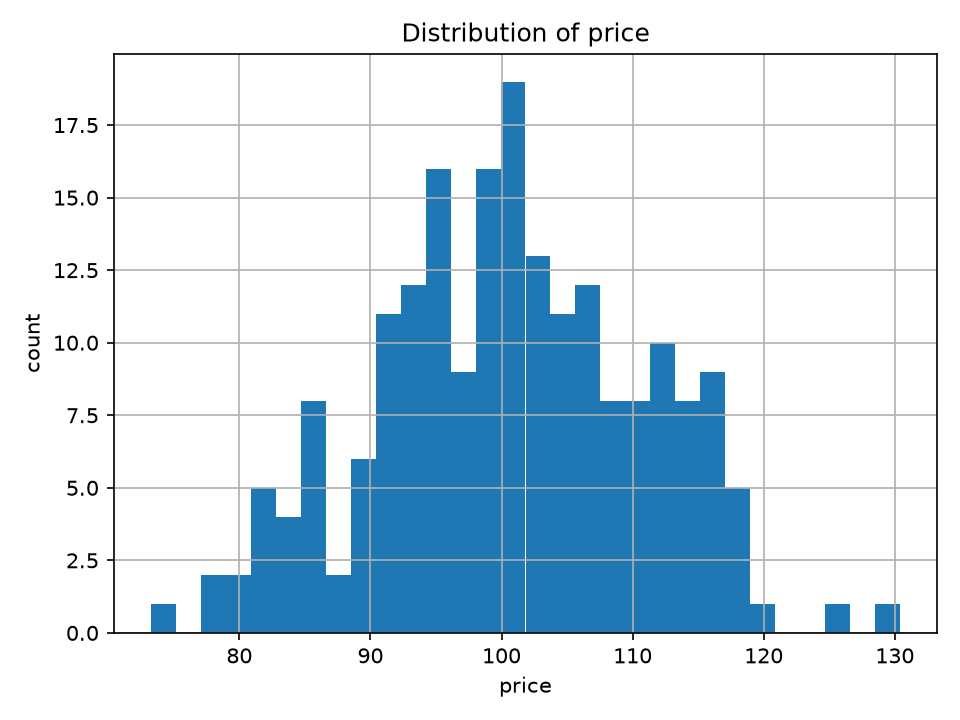
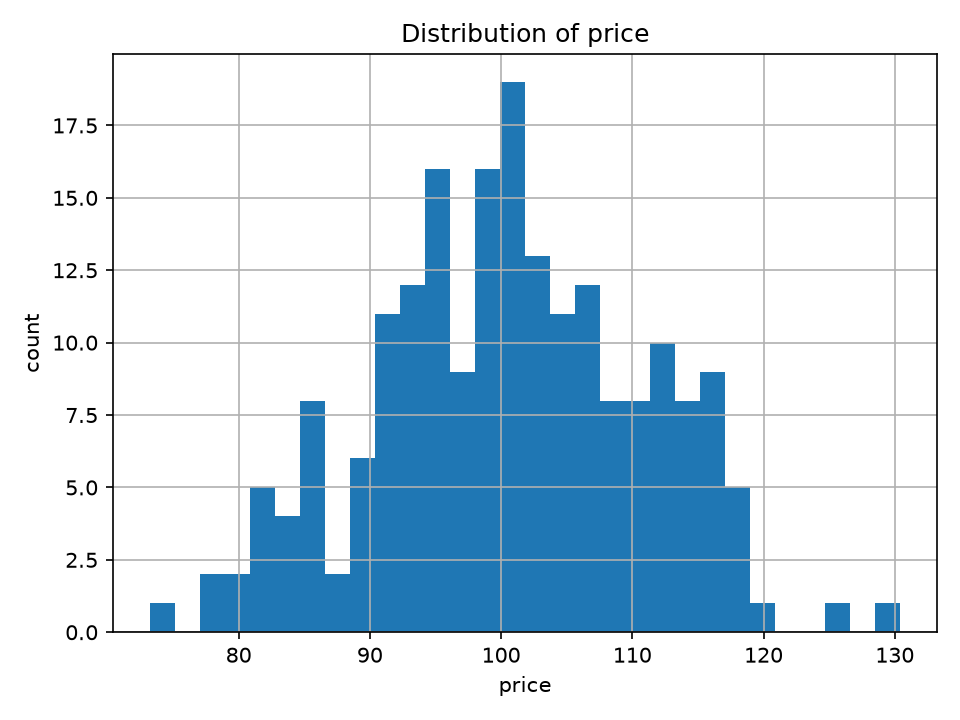
完成数据分析项目 v0

diff --git a/v0_read_data.py b/v0_read_data.py
@@ -1,6 +1,10 @@
 """v0: 读入 CSV，做描述性统计，画一张直方图。"""
-import pandas as pd
+import matplotlib
+
+matplotlib.use("Agg")  # 无界面后端：终端里运行不弹窗，也不依赖图形环境
+
 import matplotlib.pyplot as plt
+import pandas as pd
 
 df = pd.read_csv("data.csv")
 print("行数:", len(df))
@@ -24,3 +28,14 @@ plt.ylabel("count")
 plt.tight_layout()
 plt.savefig("hist.png", dpi=150)
 print("\n图已保存: hist.png")
+
+# 把统计结果落成文件，作为 v0 的产出证据
+with open("summary.txt", "w", encoding="utf-8") as f:
+    f.write(f"数据行数: {len(df)}\n")
+    f.write(f"列名: {', '.join(df.columns)}\n")
+    f.write(f"统计列: {col}\n")
+    f.write(f"均值: {round(df[col].mean(), 2)}\n")
+    f.write(f"标准差: {round(df[col].std(), 2)}\n")
+    f.write(f"最小值: {df[col].min()}\n")
+    f.write(f"最大值: {df[col].max()}\n")
+print("统计结果已保存: summary.txt")

diff --git a/README.md b/README.md
@@ -2,13 +2,48 @@
 
 用 pandas 读取数据集，做描述性统计与可视化。
 
+这是主线项目的 **v0**：把真实数据读进来，算出统计量，画出一张图。
+
+## 环境
+
+- Python 3.14
+- 依赖见 `requirements.txt`
+
 ## 运行
 
-pip3 install -r requirements.txt
+```bash
+python3 -m pip install -r requirements.txt
 python3 v0_read_data.py
+```
+
+## 输出
+
+| 文件 | 内容 |
+| --- | --- |
+| `hist.png` | 指定数值列的直方图（30 个区间） |
+| `summary.txt` | 数据行数、列名、均值、标准差、最小值、最大值 |
+
+终端会同时打印同样的统计结果。
+
+## 目录结构
+
+```
+data-project/
+├── data.csv            # 数据集，200 行
+├── fetch_data.py       # 获取真实数据的脚本
+├── v0_read_data.py     # v0 主脚本：读数据 + 统计 + 画图
+├── requirements.txt    # 依赖清单
+├── hist.png            # 生成物：直方图
+├── summary.txt         # 生成物：统计摘要
+└── README.md
+```
 
 ## 数据来源
 
-data.csv 是由脚本生成的模拟价格数据，200 行。
+`data.csv` 是由脚本生成的模拟价格数据，200 行。
 
-真实数据获取脚本为 fetch_data.py，因接口不稳定，本仓库默认使用可复现的模拟数据。
+真实数据获取脚本为 `fetch_data.py`，因接口不稳定，本仓库默认使用可复现的模拟数据。
+
+## 说明
+
+脚本使用 matplotlib 的 `Agg` 后端，可在无图形界面的终端中直接运行，不会弹出窗口。
